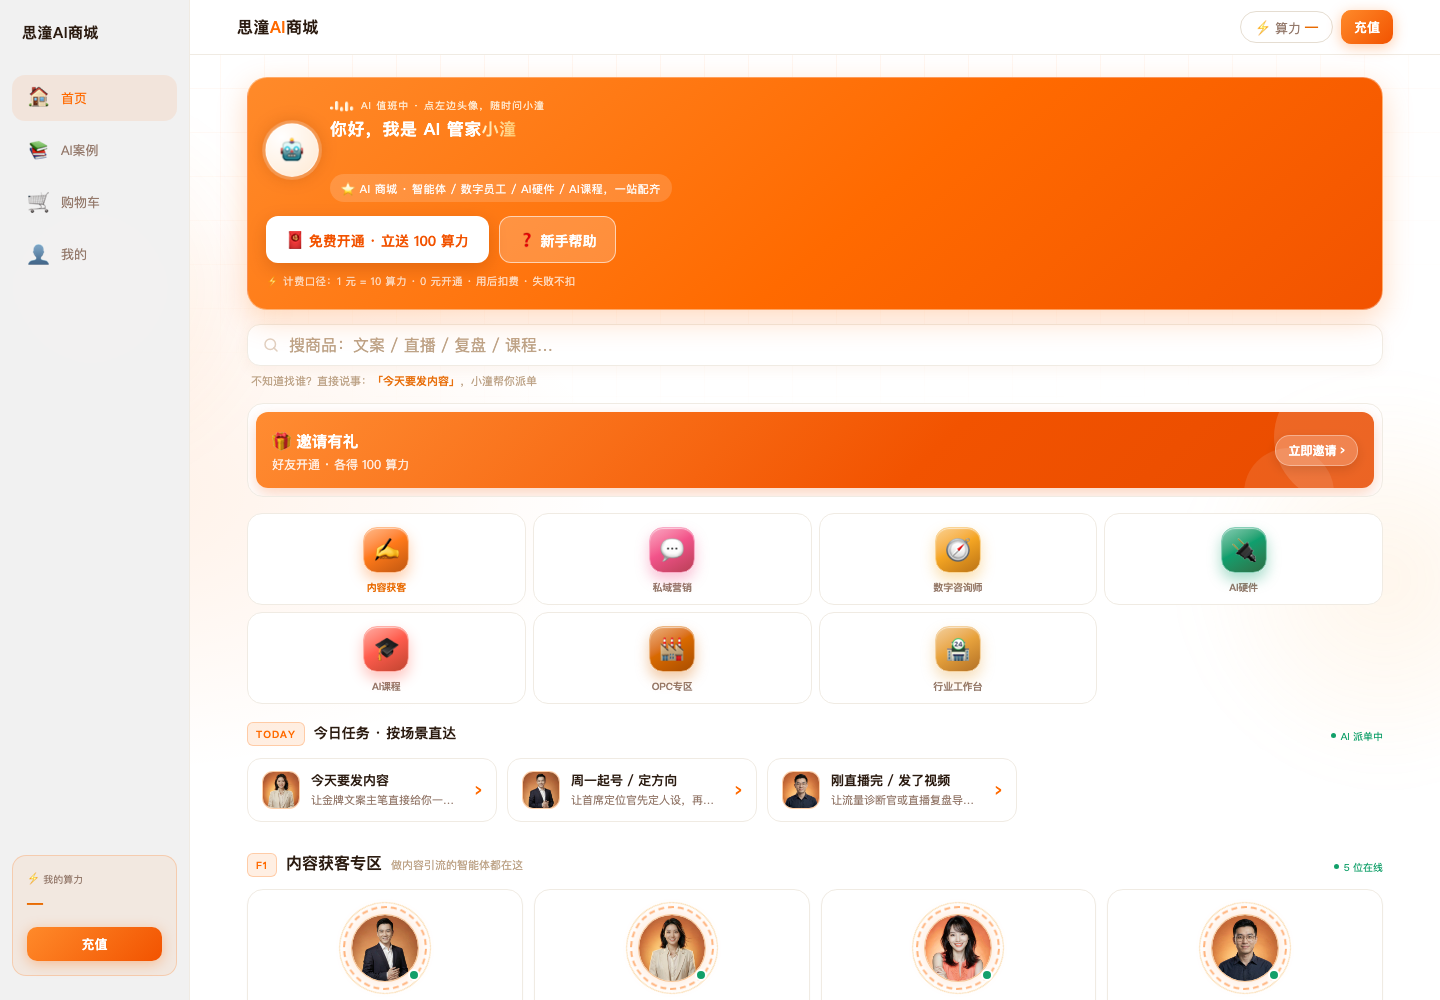
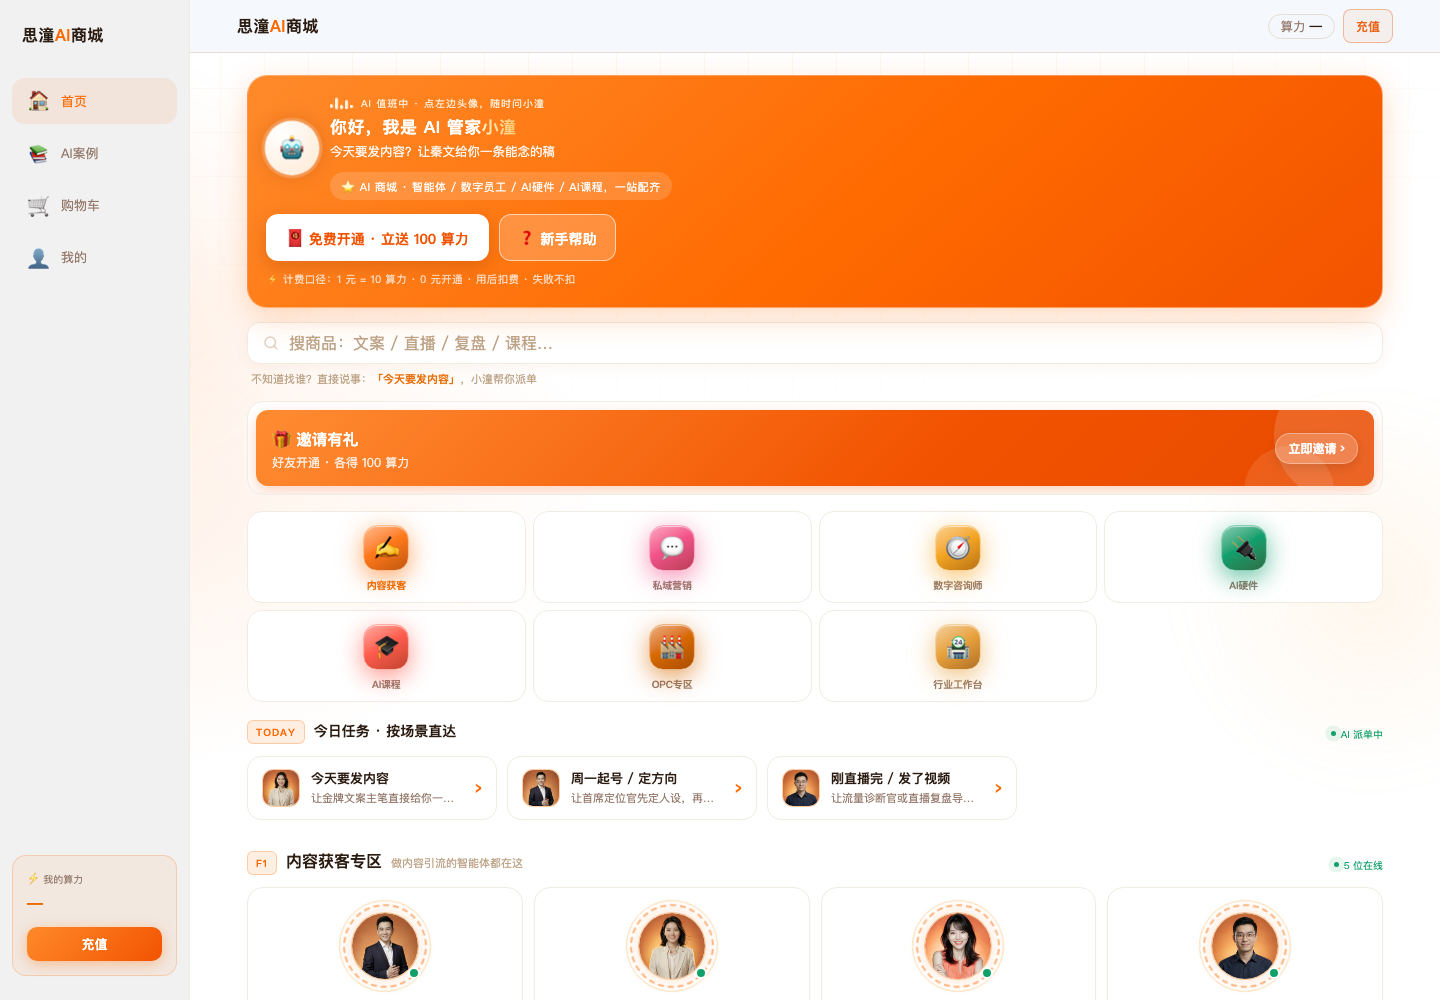
fix(web): 顶栏规格逐项照原型 ip-pos-workbench-demo + 详情页贴顶/去橙粉底 + 首页侧栏字标（仅本地）
- 顶栏：背景 rgba(244,247,252,.92)、内层高 52px；返回按钮改原型 .back-btn（橙描边 rgba(232,101,26,.38)/8px 圆角/#E8651A）；充值按钮同家族；算力胶囊改浅灰底「算力 N」（去 ⚡）；页面徽标 11px
- 详情页：.ipd-page.eh 去 12px 顶部内距（顶栏贴顶）+ 背景改干净 #F4F7FC（此前商城橙粉渐变在顶部空隙与页面底部露出，看着像粉色图片）
- 首页侧栏字标改用统一 .eh-logo（思潼深 + AI 橙），#EcoMallHomePage 最后一处旧字标清理
- 验收 67/67 PASS（新增顶栏规格/背景/侧栏字标断言）

diff --git a/apps/web/src/styles/eco-mall.css b/apps/web/src/styles/eco-mall.css
@@ -1268,19 +1268,23 @@ body.eco-mall-body .app-wrap {
 /* ---- 顶栏 ---- */
 .eh-topbar{
   position:sticky;top:0;z-index:100;
-  background:rgba(255,255,255,.9);
-  -webkit-backdrop-filter:blur(16px);backdrop-filter:blur(16px);
-  border-bottom:1px solid #F0EBE3;
+  background:rgba(244,247,252,.92);
+  -webkit-backdrop-filter:blur(8px);backdrop-filter:blur(8px);
+  border-bottom:1px solid #E5DDD1;
 }
 /* 顶栏内层：与页面内容容器对齐（1200 居中） */
-.eh-topbar-in{max-width:1200px;margin:0 auto;padding:10px 22px;display:flex;align-items:center;gap:10px}
-.eh-backpill{flex:none;height:32px;padding:0 14px;border-radius:999px;border:1px solid #E5DDD1;background:#fff;color:#94796B;font-size:12.5px;font-weight:600;cursor:pointer}
-.eh-backpill:hover{color:#E86A00;border-color:rgba(255,122,26,.45)}
+.eh-topbar-in{max-width:1200px;margin:0 auto;height:52px;padding:0 22px;display:flex;align-items:center;gap:10px}
+.eh-backpill{flex:none;padding:4px 12px;border-radius:8px;border:1px solid rgba(232,101,26,.38);background:rgba(232,101,26,.07);color:#E8651A;font-size:12px;font-weight:700;cursor:pointer}
+.eh-backpill:hover{background:rgba(232,101,26,.14)}
 .eh-logo{font-size:16px;font-weight:800;color:#2B1B10;letter-spacing:.5px;white-space:nowrap}
 .eh-logo em{font-style:normal;color:#FF6A00}
-.eh-page-badge{flex:none;height:28px;display:inline-flex;align-items:center;padding:0 12px;border-radius:999px;border:1px solid #E5DDD1;background:#fff;color:#5B6B7C;font-size:12px;white-space:nowrap}
-.eh-bal2{display:inline-flex;align-items:center;gap:4px;height:32px;padding:0 14px;border-radius:999px;border:1px solid #E5DDD1;background:#fff;font-size:13px;color:#94796B;white-space:nowrap}
-.eh-bal2 b{color:#E86A00;font-weight:800}
+.eh-page-badge{flex:none;display:inline-flex;align-items:center;padding:2px 9px;border-radius:99px;border:1px solid #E5DDD1;background:#fff;color:#94796B;font-size:11px;white-space:nowrap}
+.eh-bal2{display:inline-flex;align-items:center;gap:4px;padding:3px 12px;border-radius:99px;border:1px solid #E5DDD1;background:#F4F7FB;font-size:12.5px;color:#94796B;white-space:nowrap}
+.eh-bal2 b{color:#2B1B10;font-weight:800}
+/* 充值：与返回按钮同一家族（橙描边胶囊） */
+.eh-topbar .eh-mini{padding:4px 12px;border-radius:8px;font-size:12px;font-weight:700;background:rgba(232,101,26,.07);border:1px solid rgba(232,101,26,.38);color:#E8651A;box-shadow:none}
+.eh-topbar .eh-mini::after{display:none}
+.eh-topbar .eh-mini:hover{background:rgba(232,101,26,.14)}
 /* 详情/Topic 工作台被 1200 容器框住，顶栏做全出血（顶格），与工作台/商城一致 */
 .app-wrap.ipd-page > .eh-topbar,
 .app-wrap:not(.eco-mall-page) > .eh-topbar{
@@ -1672,3 +1676,8 @@ body:has(.ipd-page), body:has(.ts-wb){overflow-x:hidden}
 @media (prefers-reduced-motion: reduce){
   .eh .eco-product::before{animation:none}
 }
+
+
+/* 详情页：顶栏贴顶 + 干净浅色背景（去掉商城橙粉渐变，原型工作台同为 #F4F7FC） */
+.ipd-page.eh{padding-top:0;background:#F4F7FC;background-image:none}
+.ipd-page.eh > .eh-topbar{margin-top:0}

diff --git a/apps/web/src/marketplace/EcoMallHomePage.tsx b/apps/web/src/marketplace/EcoMallHomePage.tsx
@@ -719,7 +719,7 @@ export function EcoMallHomePage() {
       {/* 底部 TabBar（手机）/ 左侧导航（桌面 ≥960px，照原型 v3.28） */}
       <nav className="eh-tabbar" aria-label="商城导航">
         <div className="eh-nav-brand">
-          <span className="eh-brand-txt"><b>思潼AI商城</b></span>
+          <span className="eh-logo"><b>思潼</b><em>AI</em>商城</span>
         </div>
         <button type="button" className={`eh-tab ${view === "home" ? "act" : ""}`} onClick={() => { setView("home"); window.scrollTo({ top: 0, behavior: "smooth" }); }}>
           <i>🏠</i><span>首页</span>

diff --git a/apps/web/src/marketplace/MallTopbar.tsx b/apps/web/src/marketplace/MallTopbar.tsx
@@ -28,7 +28,7 @@ export function MallTopbar({ back, badge }: { back?: string; badge?: string }) {
         {badge ? <span className="eh-page-badge">{badge}</span> : null}
         <span className="eh-sp" />
         <div className="eh-wallet">
-          <span className="eh-bal2">⚡ 算力 <b>{balance ?? "—"}</b></span>
+          <span className="eh-bal2">算力 <b>{balance ?? "—"}</b></span>
           <button type="button" className="eh-mini" onClick={() => { window.location.href = getAppPath("/recharge"); }}>充值</button>
         </div>
       </div>
